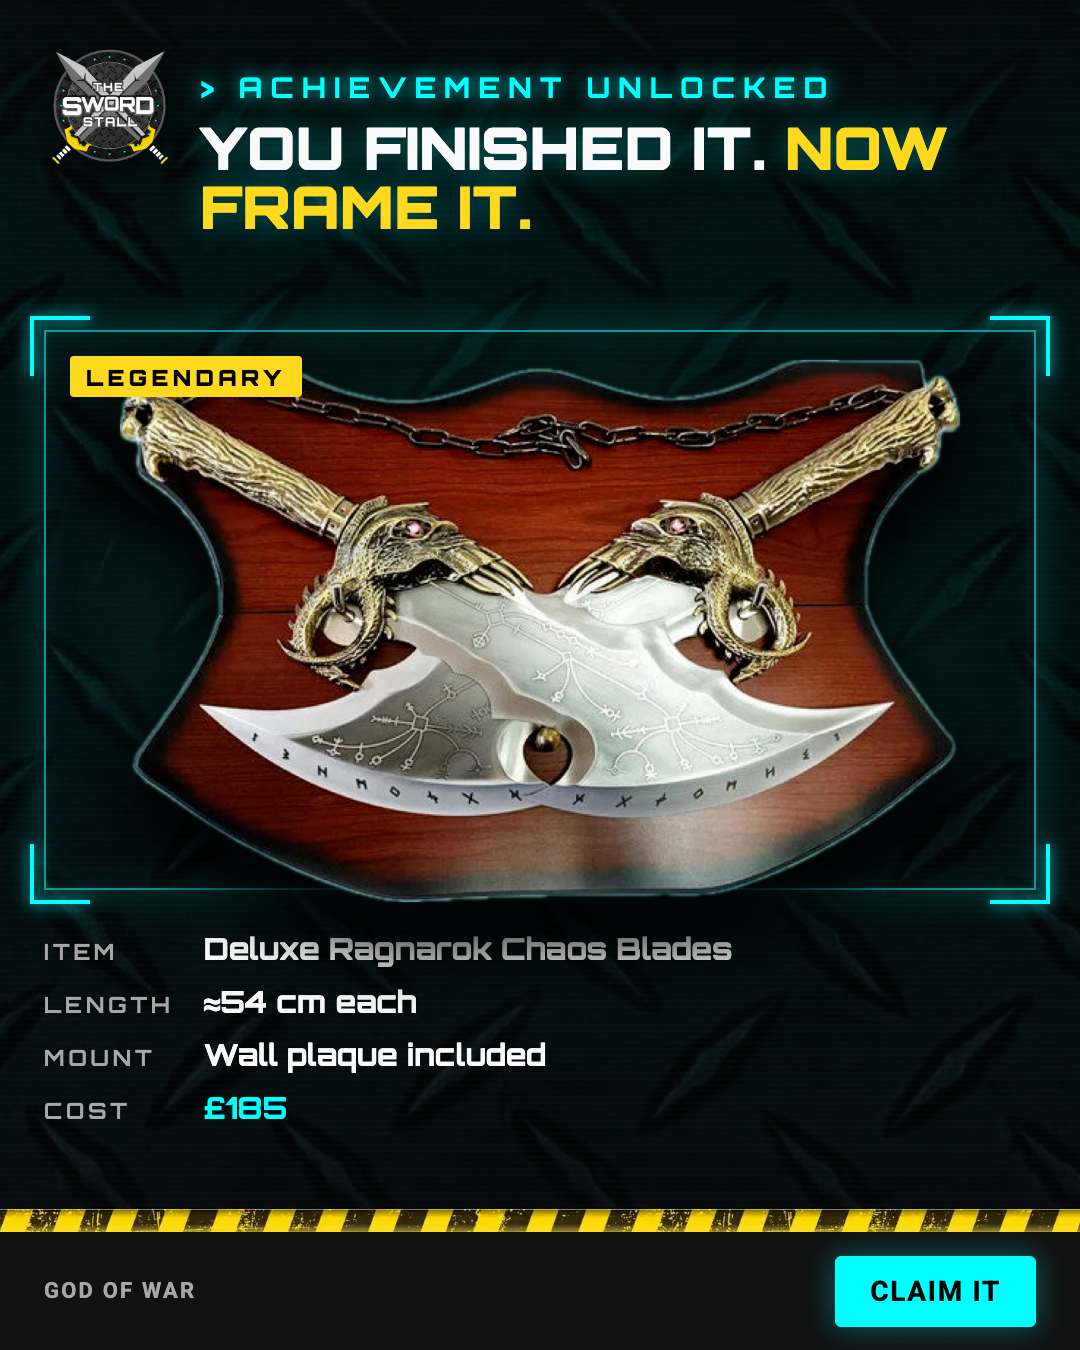
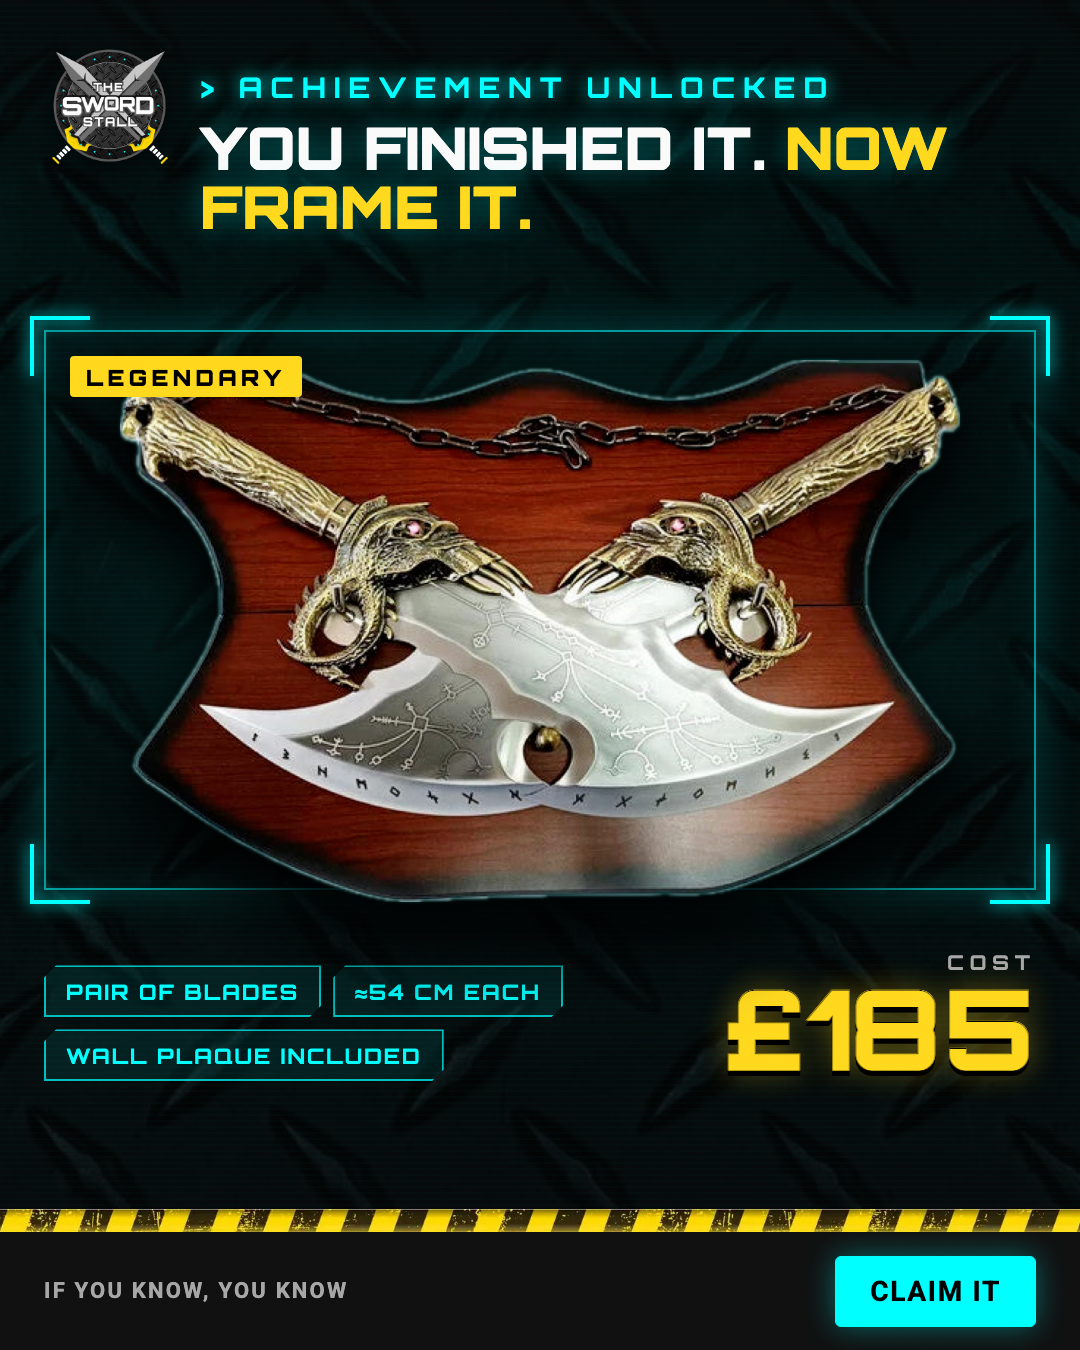
fix(sword-stall): item-unlocked statics drop spec list and game names

Changed region(s): [[0.0306, 0.6844, 0.6722, 0.84], [0.6722, 0.6844, 0.9778, 0.8089], [0.0306, 0.9333, 0.3361, 0.9644]]

diff --git a/outputs/creative/sword-stall/2026-09-29-testing-statics/source-b.html b/outputs/creative/sword-stall/2026-09-29-testing-statics/source-b.html
@@ -73,6 +73,15 @@ body:not(.solo) .ad{margin:0 0 40px}
 .dark .bg::after{content:"";position:absolute;inset:0;background:rgba(14,14,14,.55)}
 .price{font-family:var(--font-heading-family);font-weight:800;font-size:44px;line-height:1;color:var(--ss-white);
   background:#000;border:1px solid var(--ss-cyan);border-radius:var(--vendobutton-radius);padding:14px 20px 12px;box-shadow:0 0 22px rgba(0,255,255,.25)}
+
+.loot{display:flex;justify-content:space-between;align-items:flex-end;gap:30px}
+.loot .nm{font-family:var(--font-heading-family);font-weight:700;font-size:34px;line-height:1.15;text-transform:uppercase;letter-spacing:.02em;margin-bottom:18px}
+.chips{display:flex;flex-wrap:wrap;gap:12px}
+.chip{font-family:var(--font-heading-family);font-weight:700;font-size:21px;letter-spacing:.1em;text-transform:uppercase;color:var(--ss-cyan);
+  background:rgba(0,255,255,.08);border:2px solid rgba(0,255,255,.7);padding:12px 20px 10px;clip-path:polygon(12px 0,100% 0,100% calc(100% - 12px),calc(100% - 12px) 100%,0 100%,0 12px)}
+.cost{text-align:right;flex:none}
+.cost small{display:block;font-family:var(--font-heading-family);font-weight:700;font-size:20px;letter-spacing:.3em;color:var(--text-muted)}
+.cost b{display:block;font-family:var(--font-heading-family);font-weight:900;font-size:112px;line-height:.95;color:var(--ss-yellow);-webkit-text-stroke:1px #000;text-shadow:0 5px 0 #000,0 0 30px rgba(255,215,29,.35)}
 </style></head>
 <body>
 
@@ -138,7 +147,7 @@ body:not(.solo) .ad{margin:0 0 40px}
   <div class="bg"></div>
   <img class="logo" src="a/logo.png" alt="">
   <div class="kicker" style="left:200px;top:70px">&gt; New item unlocked</div>
-  <h1 class="h" style="left:200px;right:44px;top:118px;font-size:66px;text-shadow:0 0 30px rgba(0,255,255,.35)">Jin Sakai's <em>katana</em></h1>
+  <h1 class="h" style="left:200px;right:44px;top:118px;font-size:66px;text-shadow:0 0 30px rgba(0,255,255,.35)">If you know, <em>you know.</em></h1>
   <div class="frame" style="left:44px;right:44px;top:300px;height:560px;overflow:hidden">
     <img src="a/jindisp_0.jpg" alt="" style="position:absolute;inset:0;width:100%;height:100%;object-fit:cover;object-position:50% 60%">
     <div style="position:absolute;inset:0;background:repeating-linear-gradient(0deg,rgba(0,255,255,.06) 0 2px,transparent 2px 6px)"></div>
@@ -148,11 +157,7 @@ body:not(.solo) .ad{margin:0 0 40px}
   <div class="corner" style="left:30px;top:814px;border-width:0 0 4px 4px"></div>
   <div class="corner" style="right:30px;top:814px;border-width:0 4px 4px 0"></div>
   <span class="rar" style="left:70px;top:326px">Legendary</span>
-  <dl class="stats" style="left:44px;right:44px;top:910px">
-    <dt>GAME</dt><dd>Ghost of Tsushima</dd>
-    <dt>TYPE</dt><dd>Display katana</dd>
-    <dt>COST</dt><dd class="c">£69</dd>
-  </dl>
+  <div class="loot" style="left:44px;right:44px;top:960px"><div><div class="chips"><span class="chip">Display katana</span></div></div><div class="cost"><small>COST</small><b>£69</b></div></div>
   <div class="tape b"></div>
   <div class="bar"><span>You either recognise it or you don't</span><b class="btn">Equip it</b></div>
 </section>
@@ -183,14 +188,9 @@ body:not(.solo) .ad{margin:0 0 40px}
   <div class="corner" style="right:30px;top:844px;border-width:0 4px 4px 0"></div>
   <img class="prod" src="a/gow_0.png" alt="" style="left:120px;top:360px;width:840px;z-index:3">
   <span class="rar" style="left:70px;top:356px;z-index:4">Legendary</span>
-  <dl class="stats" style="left:44px;right:44px;top:930px">
-    <dt>ITEM</dt><dd>Deluxe Ragnarok Chaos Blades</dd>
-    <dt>LENGTH</dt><dd>≈54 cm each</dd>
-    <dt>MOUNT</dt><dd>Wall plaque included</dd>
-    <dt>COST</dt><dd class="c">£185</dd>
-  </dl>
+  <div class="loot" style="left:44px;right:44px;top:950px"><div><div class="chips"><span class="chip">Pair of blades</span><span class="chip">≈54 cm each</span><span class="chip">Wall plaque included</span></div></div><div class="cost"><small>COST</small><b>£185</b></div></div>
   <div class="tape b"></div>
-  <div class="bar"><span>God of War</span><b class="btn">Claim it</b></div>
+  <div class="bar"><span>If you know, you know</span><b class="btn">Claim it</b></div>
 </section>
 
 <!-- ============ PRODUCT FOCUS ============ -->
@@ -251,7 +251,7 @@ body:not(.solo) .ad{margin:0 0 40px}
   <div class="bg"></div>
   <img class="logo" src="a/logo.png" alt="">
   <div class="kicker" style="left:200px;top:70px">&gt; Synchronised</div>
-  <h1 class="h" style="left:200px;right:44px;top:118px;font-size:62px;text-shadow:0 0 30px rgba(0,255,255,.35)">Kenway's <em>hidden blade</em></h1>
+  <h1 class="h" style="left:200px;right:44px;top:118px;font-size:62px;text-shadow:0 0 30px rgba(0,255,255,.35)">You know <em>whose this is.</em></h1>
   <div class="frame" style="left:44px;right:44px;top:330px;height:520px;background:radial-gradient(ellipse at 50% 55%,rgba(0,255,255,.16),transparent 70%)"></div>
   <div class="corner" style="left:30px;top:316px;border-width:4px 0 0 4px"></div>
   <div class="corner" style="right:30px;top:316px;border-width:4px 4px 0 0"></div>
@@ -259,12 +259,7 @@ body:not(.solo) .ad{margin:0 0 40px}
   <div class="corner" style="right:30px;top:804px;border-width:0 4px 4px 0"></div>
   <img class="prod" src="a/kenway_1.png" alt="" style="left:70px;top:360px;width:940px;z-index:3">
   <span class="rar" style="left:70px;top:356px;z-index:4">Official</span>
-  <dl class="stats" style="left:44px;right:44px;top:900px">
-    <dt>GAME</dt><dd>AC IV Black Flag Resynced</dd>
-    <dt>SCALE</dt><dd>1:1 life size, wearable</dd>
-    <dt>BLADE</dt><dd>Spring-loaded, button release</dd>
-    <dt>COST</dt><dd class="c">£119</dd>
-  </dl>
+  <div class="loot" style="left:44px;right:44px;top:920px"><div><div class="chips"><span class="chip">1:1 life size</span><span class="chip">Wearable</span><span class="chip">Spring-loaded</span></div></div><div class="cost"><small>COST</small><b>£119</b></div></div>
   <div class="tape b"></div>
   <div class="bar"><span>Official UK stockist</span><b class="btn">Equip it</b></div>
 </section>
